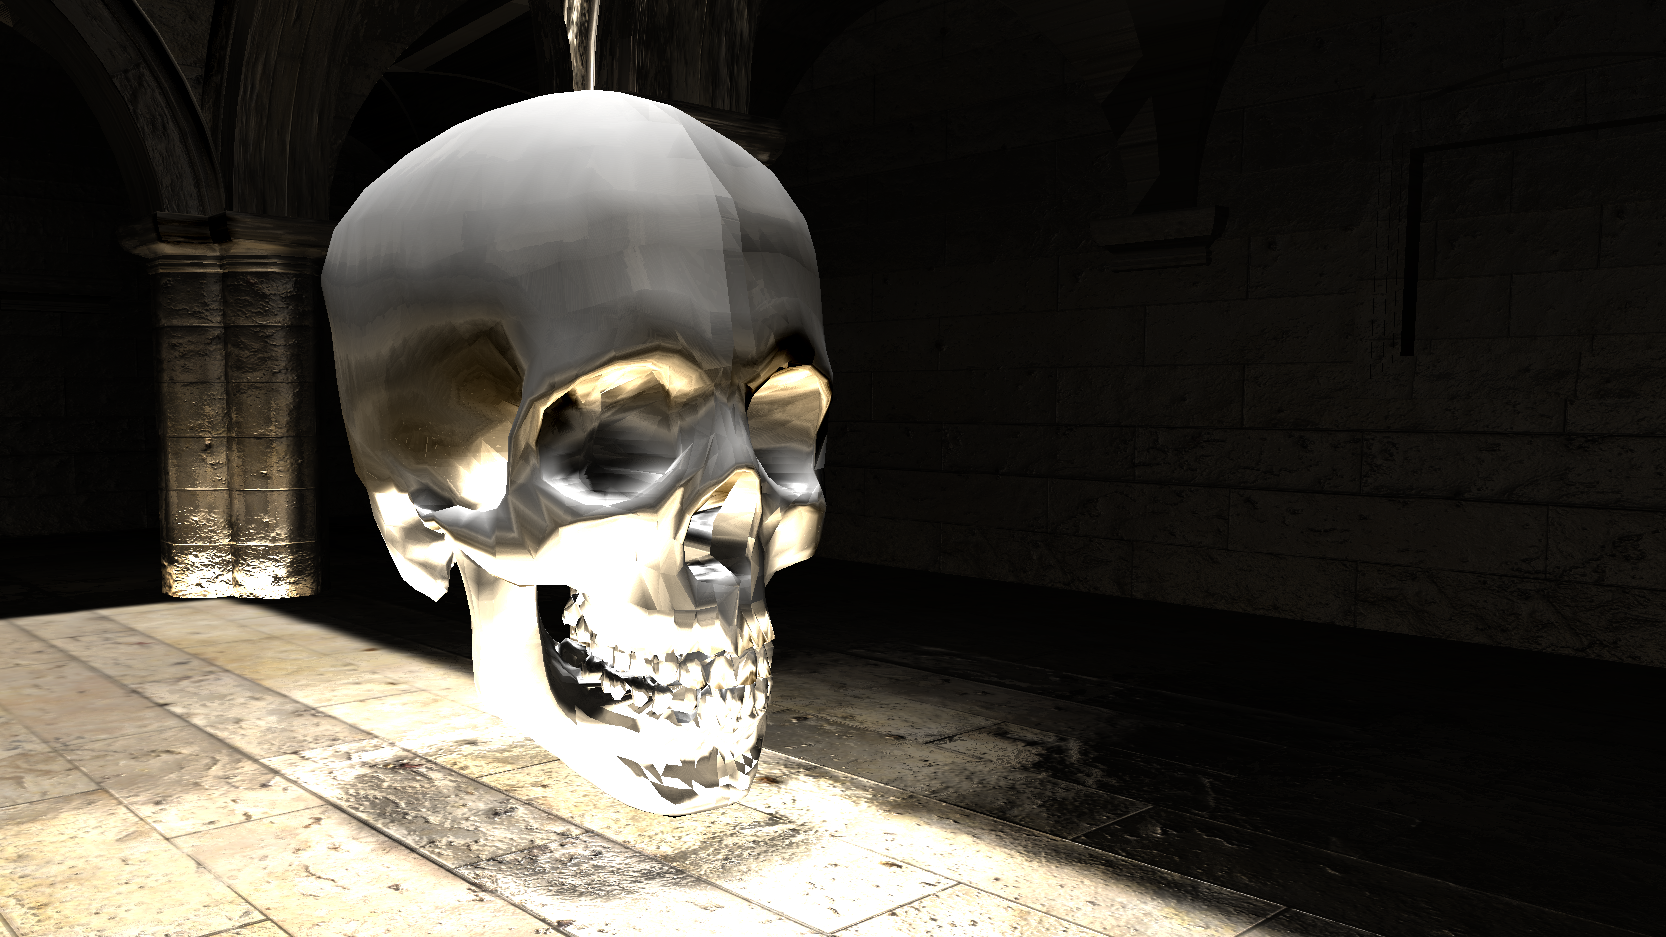
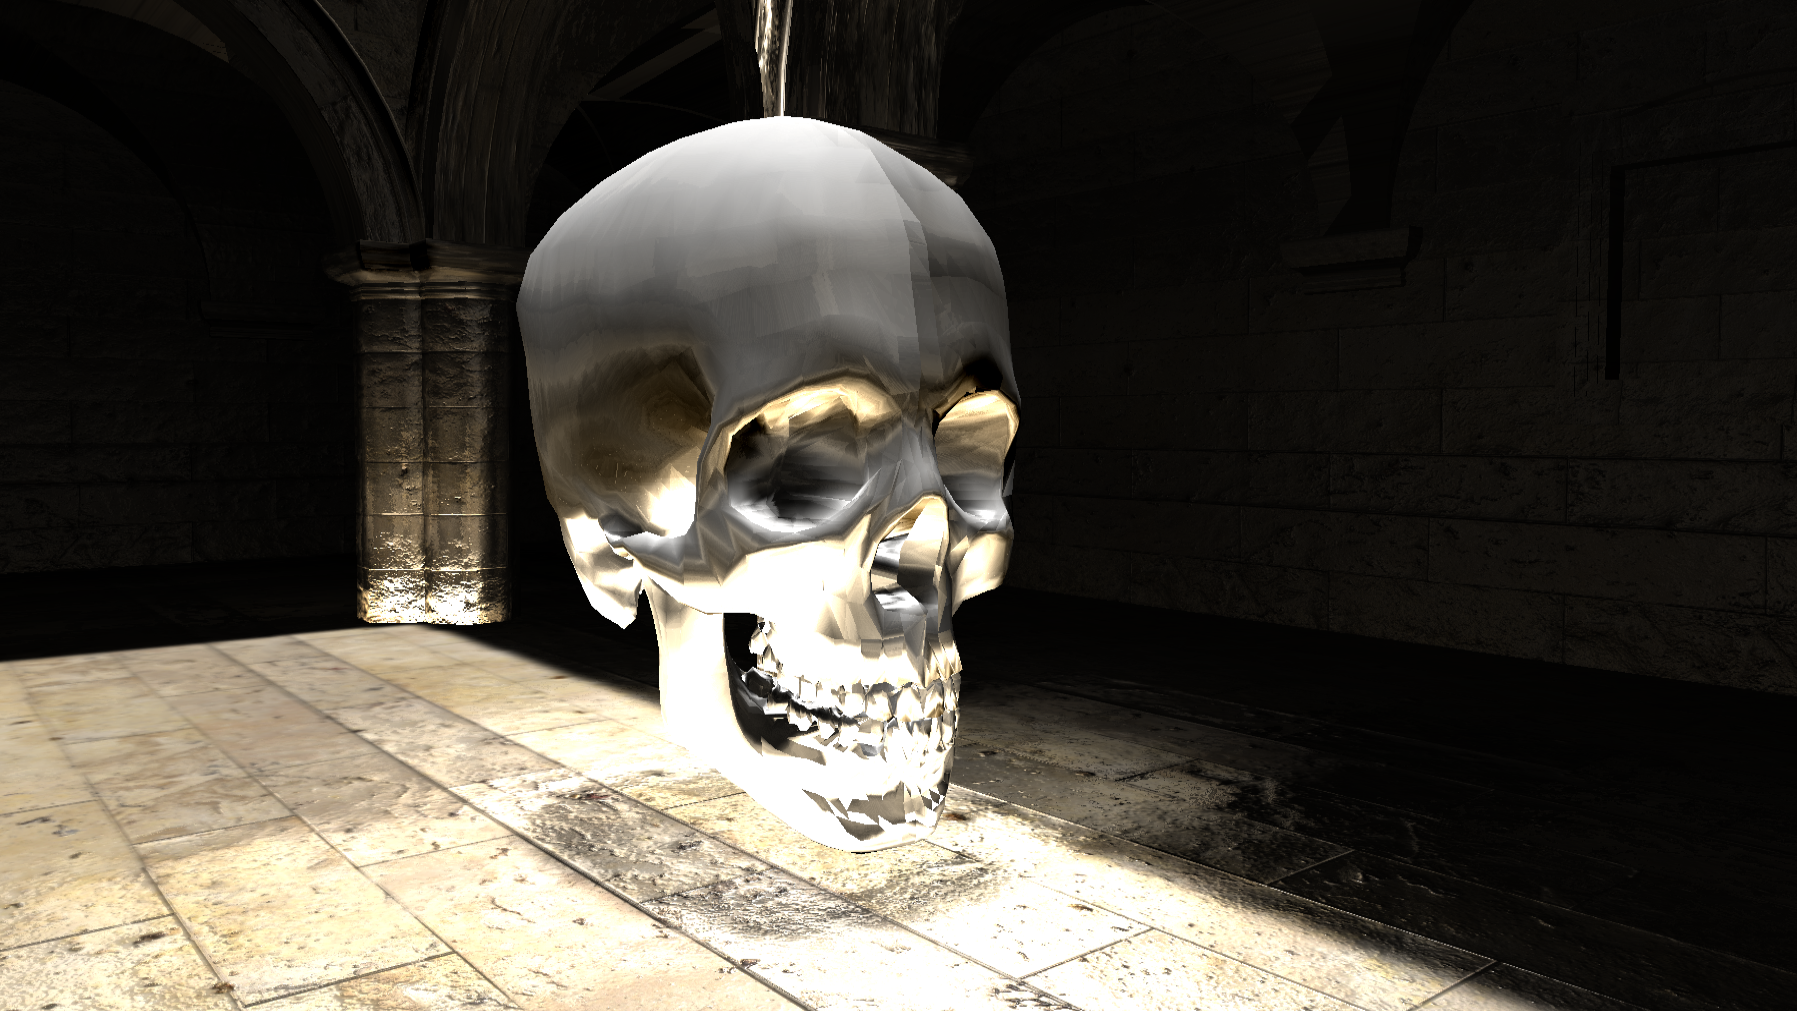
project page layout change

diff --git a/projects.html b/projects.html
@@ -35,78 +35,38 @@
 		</nav>
 
 		<main role="main">
+			<section id="piglet">
+			  <div class="container">
+				<div class="row">
+				  <div class="col-lg-8 mx-auto">
+					<h2>Piglet's Revenge</h2><br />
+					<p>Piglet has revenge on his mind.</p>
+				  </div>
+				</div>
+			  </div>
+			</section>
 
+			<section id="enkindle" class="bg-light">
+			  <div class="container">
+				<div class="row">
+				  <div class="col-lg-8 mx-auto">
+					<h2>Enkindle</h2><br />
+					<p>All a phoenix wants is for something to be reborn.</p>
+				  </div>
+				</div>
+			  </div>
+			</section>
 
-		  <div class="container" id="project-list">
-			<div class="row">
-			  <div class="col-md-4">
-				<h2>Piglet's Revenge</h2>
-				<img class="project-thumb" src="img/piglet.png">
-				<p>Help Piglet take revenge against Pooh in this Angry Birds-inspired game. </p>
-				<p><a class="btn btn-secondary" href="#" role="button">View details &raquo;</a></p>
+			<section id="research">
+			  <div class="container">
+				<div class="row">
+				  <div class="col-lg-8 mx-auto">
+					<h2>2016-17 Graphics Research Project</h2><br />
+					<p>Graphics research is hard.</p>
+				  </div>
+				</div>
 			  </div>
-			  <div class="col-md-4">
-				<h2>Enkindle</h2>
-				<img class="project-thumb" src="img/enkindle4.png">
-				<p>Guide the phoenix as it warms the world and ushers in a new season. </p>
-				<p><a class="btn btn-secondary" href="#" role="button">View details &raquo;</a></p>
-			  </div>
-			  <div class="col-md-4">
-				<h2>Research Project</h2>
-				<img class="project-thumb" src="img/skull2.png">
-				<p>A study of octree-based voxel cone global illumination and its feasibility on modern graphics cards.</p>
-				<p><a class="btn btn-secondary" href="#" role="button">View details &raquo;</a></p>
-			  </div>
-			  <div class="col-md-4">
-				<h2>Gruyere</h2>
-				<img class="project-thumb" src="img/cheese.jpg">
-				<p>One of my favorite cheeses, and also a placeholder. </p>
-				<!--
-				<p><a class="btn btn-secondary" href="#" role="button">View details &raquo;</a></p>
-				-->
-			  </div>
-			  <div class="col-md-4">
-				<h2>Cornish Yarg</h2>
-				<img class="project-thumb" src="img/cornishyarg.jpg">
-				<p>One of my favorite cheeses, and also a placeholder.</p>
-				<!--
-				<p><a class="btn btn-secondary" href="#" role="button">View details &raquo;</a></p>
-				-->			  
-			  </div>
-			  <div class="col-md-4">
-				<h2>Brillat Savarin</h2>
-				<img class="project-thumb" src="img/brillatsavarin.jpg">
-				<p>One of my favorite cheeses, and also a placeholder.</p>
-				<!--
-				<p><a class="btn btn-secondary" href="#" role="button">View details &raquo;</a></p>
-				-->
-				
-				
-			  </div>
-			  <!--
-			  <div class="col-md-4">
-				<h2>Project Name</h2>
-				<img class="project-thumb" src="img/cheese.jpg">
-				<p>Project description goes here. </p>
-				<p><a class="btn btn-secondary" href="#" role="button">View details &raquo;</a></p>
-			  </div>
-			  <div class="col-md-4">
-				<h2>Project Name</h2>
-				<img class="project-thumb" src="img/cheese.jpg">
-				<p>Project description goes here. </p>
-				<p><a class="btn btn-secondary" href="#" role="button">View details &raquo;</a></p>
-			  </div>
-			  <div class="col-md-4">
-				<h2>Project Name</h2>
-				<img class="project-thumb" src="img/cheese.jpg">
-				<p>Project description goes here. </p>
-				<p><a class="btn btn-secondary" href="#" role="button">View details &raquo;</a></p>
-			  </div>
-			  -->
-			</div>
-
-			<hr>
-
+			</section>
 		  </div>
 
 		</main>

diff --git a/index.html b/index.html
@@ -37,12 +37,11 @@
 		<main role="main">
 
 		  <div class="jumbotron">
-			<div class="container">
-			  <h1 class="display-3">Clay Evans</h1>
-			  
+			<div class="container">			  
 			  <table id="jumbo-table">
 				<tr>
 					<td>
+						<h1 class="display-3">Clay Evans</h1>
 						<p>I am an aspiring game developer looking to make an impact in the game industry. I graduated from California State University, Monterey Bay in December 2017 with a Bachelor's degree in Computer Science, concentrating in Game Development. 
 						My major areas of expertise are game development and graphics programming. 
 						During my college experience, I worked as a graphics researcher with the <a href="http://gameresearchlab.org">Game Research Lab</a> as well as a TA for a graphics class and a VR game jam. 
@@ -67,19 +66,19 @@
 				<h2>Piglet's Revenge</h2>
 				<img class="project-thumb" src="img/piglet.png">
 				<p>Help Piglet take revenge against Pooh in this Angry Birds-inspired game. </p>
-				<p><a class="btn btn-secondary" href="#" role="button">View details &raquo;</a></p>
+				<p><a class="btn btn-secondary" href="projects.html#piglet" role="button">View details &raquo;</a></p>
 			  </div>
 			  <div class="col-md-4">
 				<h2>Enkindle</h2>
 				<img class="project-thumb" src="img/enkindle4.png">
 				<p>Guide the phoenix as it warms the world and ushers in a new season. </p>
-				<p><a class="btn btn-secondary" href="#" role="button">View details &raquo;</a></p>
+				<p><a class="btn btn-secondary" href="projects.html#enkindle" role="button">View details &raquo;</a></p>
 			  </div>
 			  <div class="col-md-4">
 				<h2>Research Project</h2>
-				<img class="project-thumb" src="img/skull2.png">
+				<img class="project-thumb" src="img/skull.png">
 				<p>A study of octree-based voxel cone global illumination and its feasibility on modern graphics cards.</p>
-				<p><a class="btn btn-secondary" href="#" role="button">View details &raquo;</a></p>
+				<p><a class="btn btn-secondary" href="projects.html#research" role="button">View details &raquo;</a></p>
 			  </div>
 			</div>
 

diff --git a/css/styles.css b/css/styles.css
@@ -32,3 +32,7 @@ body {
 	width:100%;
 	
 }
+
+section {
+  padding: 75px 0;
+}
